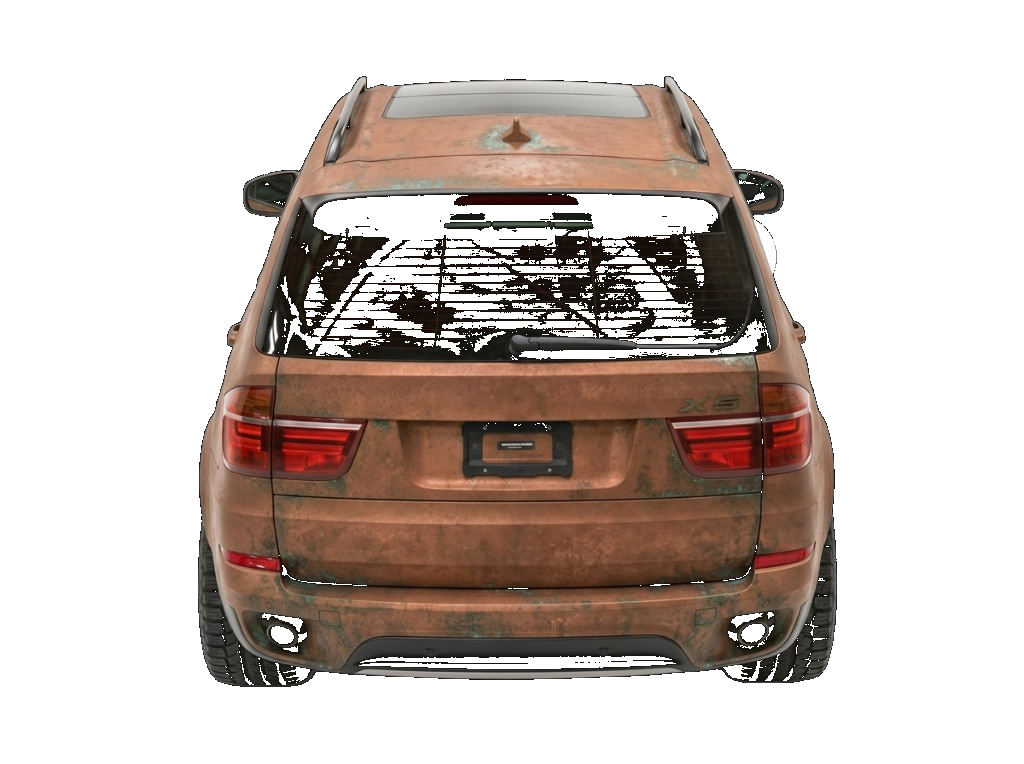
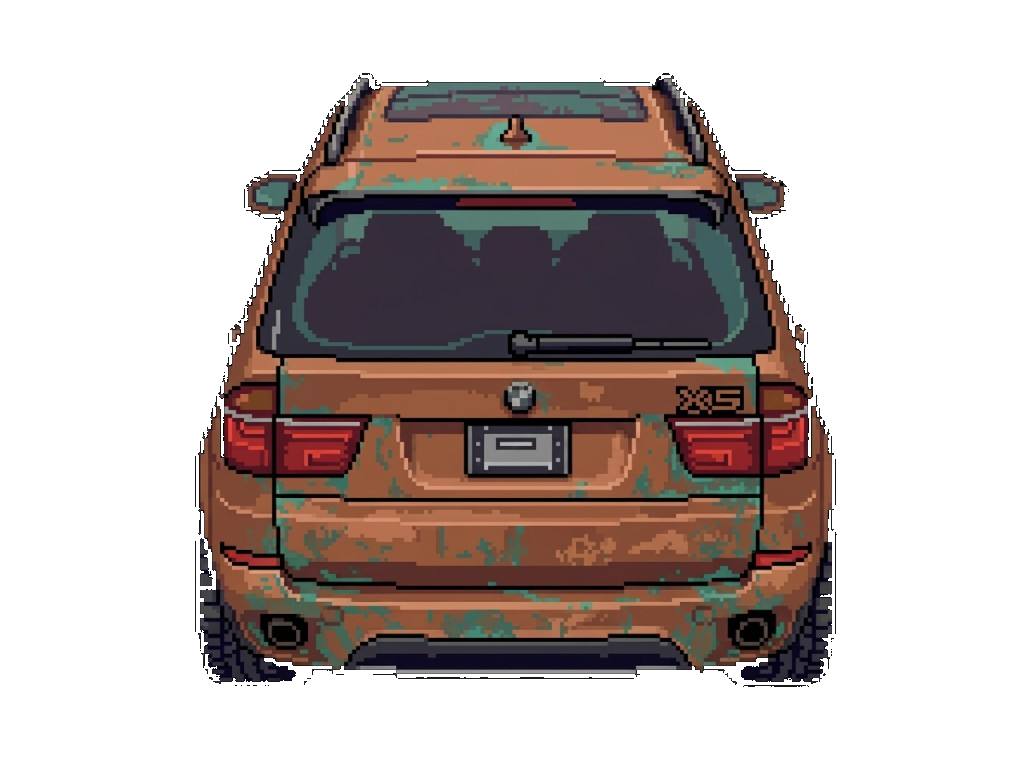
Add pixel car sprites, phone replay controls, and variable phone spin.
Swap in chunky copper/police assets, pop red Replay/Share above the phone, and spin faster on the back and slower on the front.

Changed region(s): [[0.1875, 0.0903, 0.8438, 0.9031]]

diff --git a/frogger.html b/frogger.html
@@ -258,7 +258,84 @@
       display: grid;
       place-items: center;
     }
-    .phone-ctl > * { grid-area: 1 / 1; }
+    .phone-ctl > *:not(.phone-actions) { grid-area: 1 / 1; }
+    .phone-actions {
+      position: absolute;
+      left: 50%;
+      bottom: calc(100% + 8px);
+      transform: translateX(-50%);
+      z-index: 8;
+      display: flex;
+      flex-direction: column-reverse;
+      align-items: stretch;
+      gap: 6px;
+      width: max(100%, 76px);
+      pointer-events: none;
+    }
+    .phone-action {
+      appearance: none;
+      -webkit-appearance: none;
+      margin: 0;
+      padding: 7px 8px;
+      border-radius: 5px;
+      border: 1px solid rgba(255, 210, 200, 0.35);
+      font-family: var(--font-ui);
+      font-size: 0.62rem;
+      font-weight: 800;
+      letter-spacing: 0.14em;
+      text-transform: uppercase;
+      color: #fff6e3;
+      cursor: pointer;
+      opacity: 0;
+      transform: translateY(10px) scale(0.9);
+      pointer-events: none;
+      /* Stay out of the stack until popped up so Share doesn't leave a gap */
+      position: absolute;
+      left: 0;
+      right: 0;
+      transition:
+        opacity 280ms ease,
+        transform 320ms cubic-bezier(0.22, 1, 0.36, 1),
+        border-color 160ms ease,
+        filter 160ms ease;
+    }
+    .phone-action.is-up {
+      position: relative;
+      left: auto;
+      right: auto;
+      opacity: 1;
+      transform: translateY(0) scale(1);
+      pointer-events: auto;
+    }
+    .phone-action:disabled {
+      opacity: 0.4;
+      cursor: default;
+      filter: grayscale(0.2);
+    }
+    .phone-action--replay {
+      background:
+        linear-gradient(180deg, rgba(255, 255, 255, 0.16), rgba(255, 255, 255, 0.03)),
+        linear-gradient(180deg, #e24a43, #9a1f1c);
+      box-shadow:
+        inset 0 1px 0 rgba(255, 255, 255, 0.16),
+        0 6px 16px rgba(120, 20, 16, 0.45);
+    }
+    .phone-action--share {
+      background:
+        linear-gradient(180deg, rgba(255, 255, 255, 0.12), rgba(255, 255, 255, 0.03)),
+        linear-gradient(180deg, #2a6b45, #163528);
+      border-color: rgba(255, 238, 198, 0.28);
+      box-shadow:
+        inset 0 1px 0 rgba(255, 255, 255, 0.1),
+        0 5px 14px rgba(0, 0, 0, 0.4);
+    }
+    .phone-action--share.is-shared {
+      border-color: rgba(143, 217, 164, 0.5);
+      color: #eafff0;
+    }
+    .phone-action:not(:disabled):active {
+      transform: translateY(1px) scale(0.98);
+    }
     .help-btn {
       position: relative;
       width: 100%;
@@ -572,35 +649,13 @@
     }
     .panel-inner.drive-phase .phone-3d {
       transform-origin: center center;
-      -webkit-animation: phoneLongAxisSpin 14s linear infinite;
-      animation: phoneLongAxisSpin 14s linear infinite;
+      /* Yaw spin is JS-driven so front/back can use different speeds */
       will-change: transform;
     }
     .panel-inner.drive-phase .phone-ctl:has(.help-btn[aria-expanded="true"]) .phone-face {
       box-shadow:
         0 7px 16px rgba(0, 0, 0, 0.58),
         0 0 12px rgba(232, 154, 187, 0.35);
-    }
-    /* Pause only on real hover — sticky :hover on phones was freezing the spin. */
-    @media (hover: hover) and (pointer: fine) {
-      .panel-inner.drive-phase .phone-ctl:hover .phone-3d {
-        -webkit-animation-play-state: paused;
-        animation-play-state: paused;
-      }
-    }
-    @-webkit-keyframes phoneLongAxisSpin {
-      from { -webkit-transform: rotateY(0deg); transform: rotateY(0deg); }
-      to { -webkit-transform: rotateY(360deg); transform: rotateY(360deg); }
-    }
-    @keyframes phoneLongAxisSpin {
-      from { transform: rotateY(0deg); }
-      to { transform: rotateY(360deg); }
-    }
-    @media (prefers-reduced-motion: reduce) {
-      .panel-inner.drive-phase .phone-3d {
-        -webkit-animation: none;
-        animation: none;
-      }
     }
     .help-panel {
       position: absolute;
@@ -801,6 +856,10 @@
         </div>
 
         <div class="phone-ctl">
+          <div class="phone-actions" id="phoneActions" aria-live="polite">
+            <button class="phone-action phone-action--replay" id="replayBtn" type="button" aria-hidden="true" tabindex="-1">Replay</button>
+            <button class="phone-action phone-action--share" id="shareReplayBtn" type="button" aria-hidden="true" tabindex="-1">Share</button>
+          </div>
           <div class="phone-scene" aria-hidden="true">
             <div class="phone-3d">
               <div class="phone-face phone-face--front">
@@ -1601,20 +1660,20 @@
 
   const canvas = document.getElementById('game');
   const ctx = canvas.getContext('2d');
-  // Player ride — rear-view copper/patina BMW X5 sprite (transparent studio cutout)
+  // Player ride — pixel copper/patina BMW X5 (transparent cutout)
   const PLAYER_CAR_IMG = new Image();
   PLAYER_CAR_IMG.src = 'copper_car.png';
-  const PLAYER_CAR_SRC = { x: 196, y: 74, w: 643, h: 615 };
+  const PLAYER_CAR_SRC = { x: 193, y: 71, w: 646, h: 618 };
   const PLAYER_CAR_BASE_W = 40;
   // Dual exhaust tip centers as fractions of the cropped sprite
   const PLAYER_CAR_TIPS = [
-    { fx: (407 - 196) / 643, fy: (606 - 74) / 615 },
-    { fx: (601 - 196) / 643, fy: (607 - 74) / 615 }
+    { fx: 0.280, fy: 0.908 },
+    { fx: 0.724, fy: 0.910 }
   ];
-  // Chase / traffic — rear-view Crown Vic Police Interceptor
+  // Chase / traffic — pixel Crown Vic Police Interceptor
   const POLICE_CAR_IMG = new Image();
   POLICE_CAR_IMG.src = 'police_car.png';
-  const POLICE_CAR_SRC = { x: 126, y: 18, w: 785, h: 641 };
+  const POLICE_CAR_SRC = { x: 123, y: 18, w: 791, h: 643 };
   const POLICE_CAR_BASE_W = 44;
   const overlay = document.getElementById('overlay');
   const overlayTitle = document.getElementById('overlayTitle');
@@ -2789,6 +2848,25 @@
   let phoneRhymeFront = true;
   let phoneRhymeRaf = 0;
   let phoneRhymeLastKey = '';
+  // Base spin = one turn / 14s; front 50% slower, back 50% faster
+  const PHONE_SPIN_BASE_DPS = 360 / 14;
+  const PHONE_SPIN_FRONT_DPS = PHONE_SPIN_BASE_DPS * 0.5;
+  const PHONE_SPIN_BACK_DPS = PHONE_SPIN_BASE_DPS * 1.5;
+  let phoneYawDeg = 0;
+  let phoneSpinRate = PHONE_SPIN_FRONT_DPS;
+  let phoneSpinLastTs = 0;
+  let phoneSpinPaused = false;
+  const phoneCtlEl = document.querySelector('.phone-ctl');
+  const phoneFineHover = window.matchMedia('(hover: hover) and (pointer: fine)');
+  const phoneReduceMotion = window.matchMedia('(prefers-reduced-motion: reduce)');
+  if (phoneCtlEl) {
+    phoneCtlEl.addEventListener('mouseenter', () => {
+      if (phoneFineHover.matches) phoneSpinPaused = true;
+    });
+    phoneCtlEl.addEventListener('mouseleave', () => {
+      phoneSpinPaused = false;
+    });
+  }
 
   function pickFrom(arr, n) {
     const copy = arr.slice();
@@ -2854,15 +2932,12 @@
   }
 
   function phoneYawRad() {
-    if (!phone3dEl) return 0;
-    const t = getComputedStyle(phone3dEl).transform;
-    if (!t || t === 'none') return 0;
-    try {
-      const m = new DOMMatrixReadOnly(t);
-      return Math.atan2(m.m13, m.m11);
-    } catch (_) {
-      return 0;
-    }
+    return (phoneYawDeg * Math.PI) / 180;
+  }
+
+  function applyPhoneYaw() {
+    if (!phone3dEl) return;
+    phone3dEl.style.transform = `rotateY(${phoneYawDeg}deg)`;
   }
 
   function syncPhoneRhyme() {
@@ -2876,11 +2951,32 @@
     phoneRhymeFront = front;
   }
 
+  function tickPhoneSpin(ts) {
+    if (!phone3dEl || state.phase !== 'drive') return;
+    if (!phoneSpinLastTs) phoneSpinLastTs = ts;
+    let dt = (ts - phoneSpinLastTs) / 1000;
+    phoneSpinLastTs = ts;
+    dt = Math.min(0.05, Math.max(0, dt));
+
+    if (!phoneReduceMotion.matches && !phoneSpinPaused) {
+      const front = Math.cos(phoneYawRad()) > 0.08;
+      const target = front ? PHONE_SPIN_FRONT_DPS : PHONE_SPIN_BACK_DPS;
+      // Ease into the new rate so the edge handoff doesn't hitch
+      phoneSpinRate += (target - phoneSpinRate) * Math.min(1, dt * 5);
+      phoneYawDeg = (phoneYawDeg + phoneSpinRate * dt) % 360;
+      if (phoneYawDeg < 0) phoneYawDeg += 360;
+      applyPhoneYaw();
+    }
+    syncPhoneRhyme();
+  }
+
   function startPhoneRhymeLoop() {
-    if (!phoneRhymeEls.length || phoneRhymeRaf) return;
-    if (!phoneRhymeEls[0].textContent) pickPhoneRhyme();
-    const tick = () => {
-      syncPhoneRhyme();
+    if (phoneRhymeRaf) return;
+    if (phoneRhymeEls.length && !phoneRhymeEls[0].textContent) pickPhoneRhyme();
+    phoneSpinLastTs = 0;
+    applyPhoneYaw();
+    const tick = (ts) => {
+      tickPhoneSpin(ts);
       phoneRhymeRaf = requestAnimationFrame(tick);
     };
     phoneRhymeRaf = requestAnimationFrame(tick);
@@ -2890,6 +2986,10 @@
     if (phoneRhymeRaf) cancelAnimationFrame(phoneRhymeRaf);
     phoneRhymeRaf = 0;
     phoneRhymeFront = true;
+    phoneSpinLastTs = 0;
+    phoneSpinPaused = false;
+    phoneSpinRate = PHONE_SPIN_FRONT_DPS;
+    if (phone3dEl) phone3dEl.style.transform = '';
   }
 
   function flashNowPlaying(title) {
@@ -4027,20 +4127,48 @@
 
   function updateReplayButton() {
     if (!replayBtn) return;
-    replayBtn.hidden = state.phase !== 'drive';
-    replayBtn.disabled = state.replay.sharing
+    const inDrive = state.phase === 'drive';
+    const hasClip = state.replay.buffer.length >= 2 || state.replay.playing;
+    const show = inDrive && hasClip;
+    replayBtn.hidden = false;
+    replayBtn.setAttribute('aria-hidden', show ? 'false' : 'true');
+    if (show) {
+      // Next frame so the pop-in transition runs after leaving display:none
+      requestAnimationFrame(() => replayBtn.classList.add('is-up'));
+    } else {
+      replayBtn.classList.remove('is-up');
+    }
+    replayBtn.disabled = !show
+      || state.replay.sharing
       || state.replay.exporting
       || (!state.replay.playing && state.replay.buffer.length < 2);
+    replayBtn.tabIndex = show ? 0 : -1;
     replayBtn.textContent = state.replay.playing && !state.replay.exporting ? 'Skip' : 'Replay';
+    replayBtn.setAttribute('aria-label', state.replay.playing ? 'Skip replay' : 'Play instant replay');
   }
 
   function updateShareReplayButton() {
     if (!shareReplayBtn) return;
-    shareReplayBtn.hidden = state.phase !== 'drive';
+    // Share only while a replay is on screen (or while export/share is in flight from it)
+    const show = state.phase === 'drive' && (
+      state.replay.playing || state.replay.exporting || state.replay.sharing
+    );
+    shareReplayBtn.hidden = false;
+    shareReplayBtn.setAttribute('aria-hidden', show ? 'false' : 'true');
+    if (show) {
+      requestAnimationFrame(() => shareReplayBtn.classList.add('is-up'));
+    } else {
+      shareReplayBtn.classList.remove('is-up');
+    }
     const canShare = !!getShareableClip() && canShareReplayVideo();
-    shareReplayBtn.disabled = state.replay.sharing || state.replay.exporting || !canShare;
+    shareReplayBtn.disabled = !show || state.replay.sharing || state.replay.exporting || !canShare;
+    shareReplayBtn.tabIndex = show ? 0 : -1;
     if (!shareReplayBtn.classList.contains('is-shared')) {
-      shareReplayBtn.textContent = state.replay.sharing ? 'Sharing…' : 'Share';
+      shareReplayBtn.textContent = state.replay.sharing
+        ? 'Sharing…'
+        : state.replay.exporting
+          ? 'Saving…'
+          : 'Share';
     }
   }
 
@@ -8056,6 +8184,7 @@
     ctx.ellipse(0, 3 * s, drawW * 0.44, drawH * 0.09, 0, 0, Math.PI * 2);
     ctx.fill();
 
+    ctx.imageSmoothingEnabled = false;
     ctx.drawImage(
       PLAYER_CAR_IMG,
       PLAYER_CAR_SRC.x, PLAYER_CAR_SRC.y, PLAYER_CAR_SRC.w, PLAYER_CAR_SRC.h,
@@ -8094,6 +8223,7 @@
     ctx.ellipse(0, 3 * s, drawW * 0.44, drawH * 0.09, 0, 0, Math.PI * 2);
     ctx.fill();
 
+    ctx.imageSmoothingEnabled = false;
     ctx.drawImage(
       POLICE_CAR_IMG,
       POLICE_CAR_SRC.x, POLICE_CAR_SRC.y, POLICE_CAR_SRC.w, POLICE_CAR_SRC.h,
@@ -10882,7 +11012,7 @@
         ctx.fillText('Instant Replay', W / 2, H * 0.42);
         ctx.font = '600 12px "General Sans", sans-serif';
         ctx.fillStyle = '#bdb39b';
-        ctx.fillText('Last 5 seconds · R or Skip to exit · Share to send', W / 2, H * 0.42 + 24);
+        ctx.fillText('Last 5 seconds · Share above the phone · Skip / R to exit', W / 2, H * 0.42 + 24);
         ctx.fillStyle = '#2a2c30';
         ctx.fillRect(W * 0.15, H * 0.42 + 36, W * 0.7, 5);
         ctx.fillStyle = '#d4a017';
